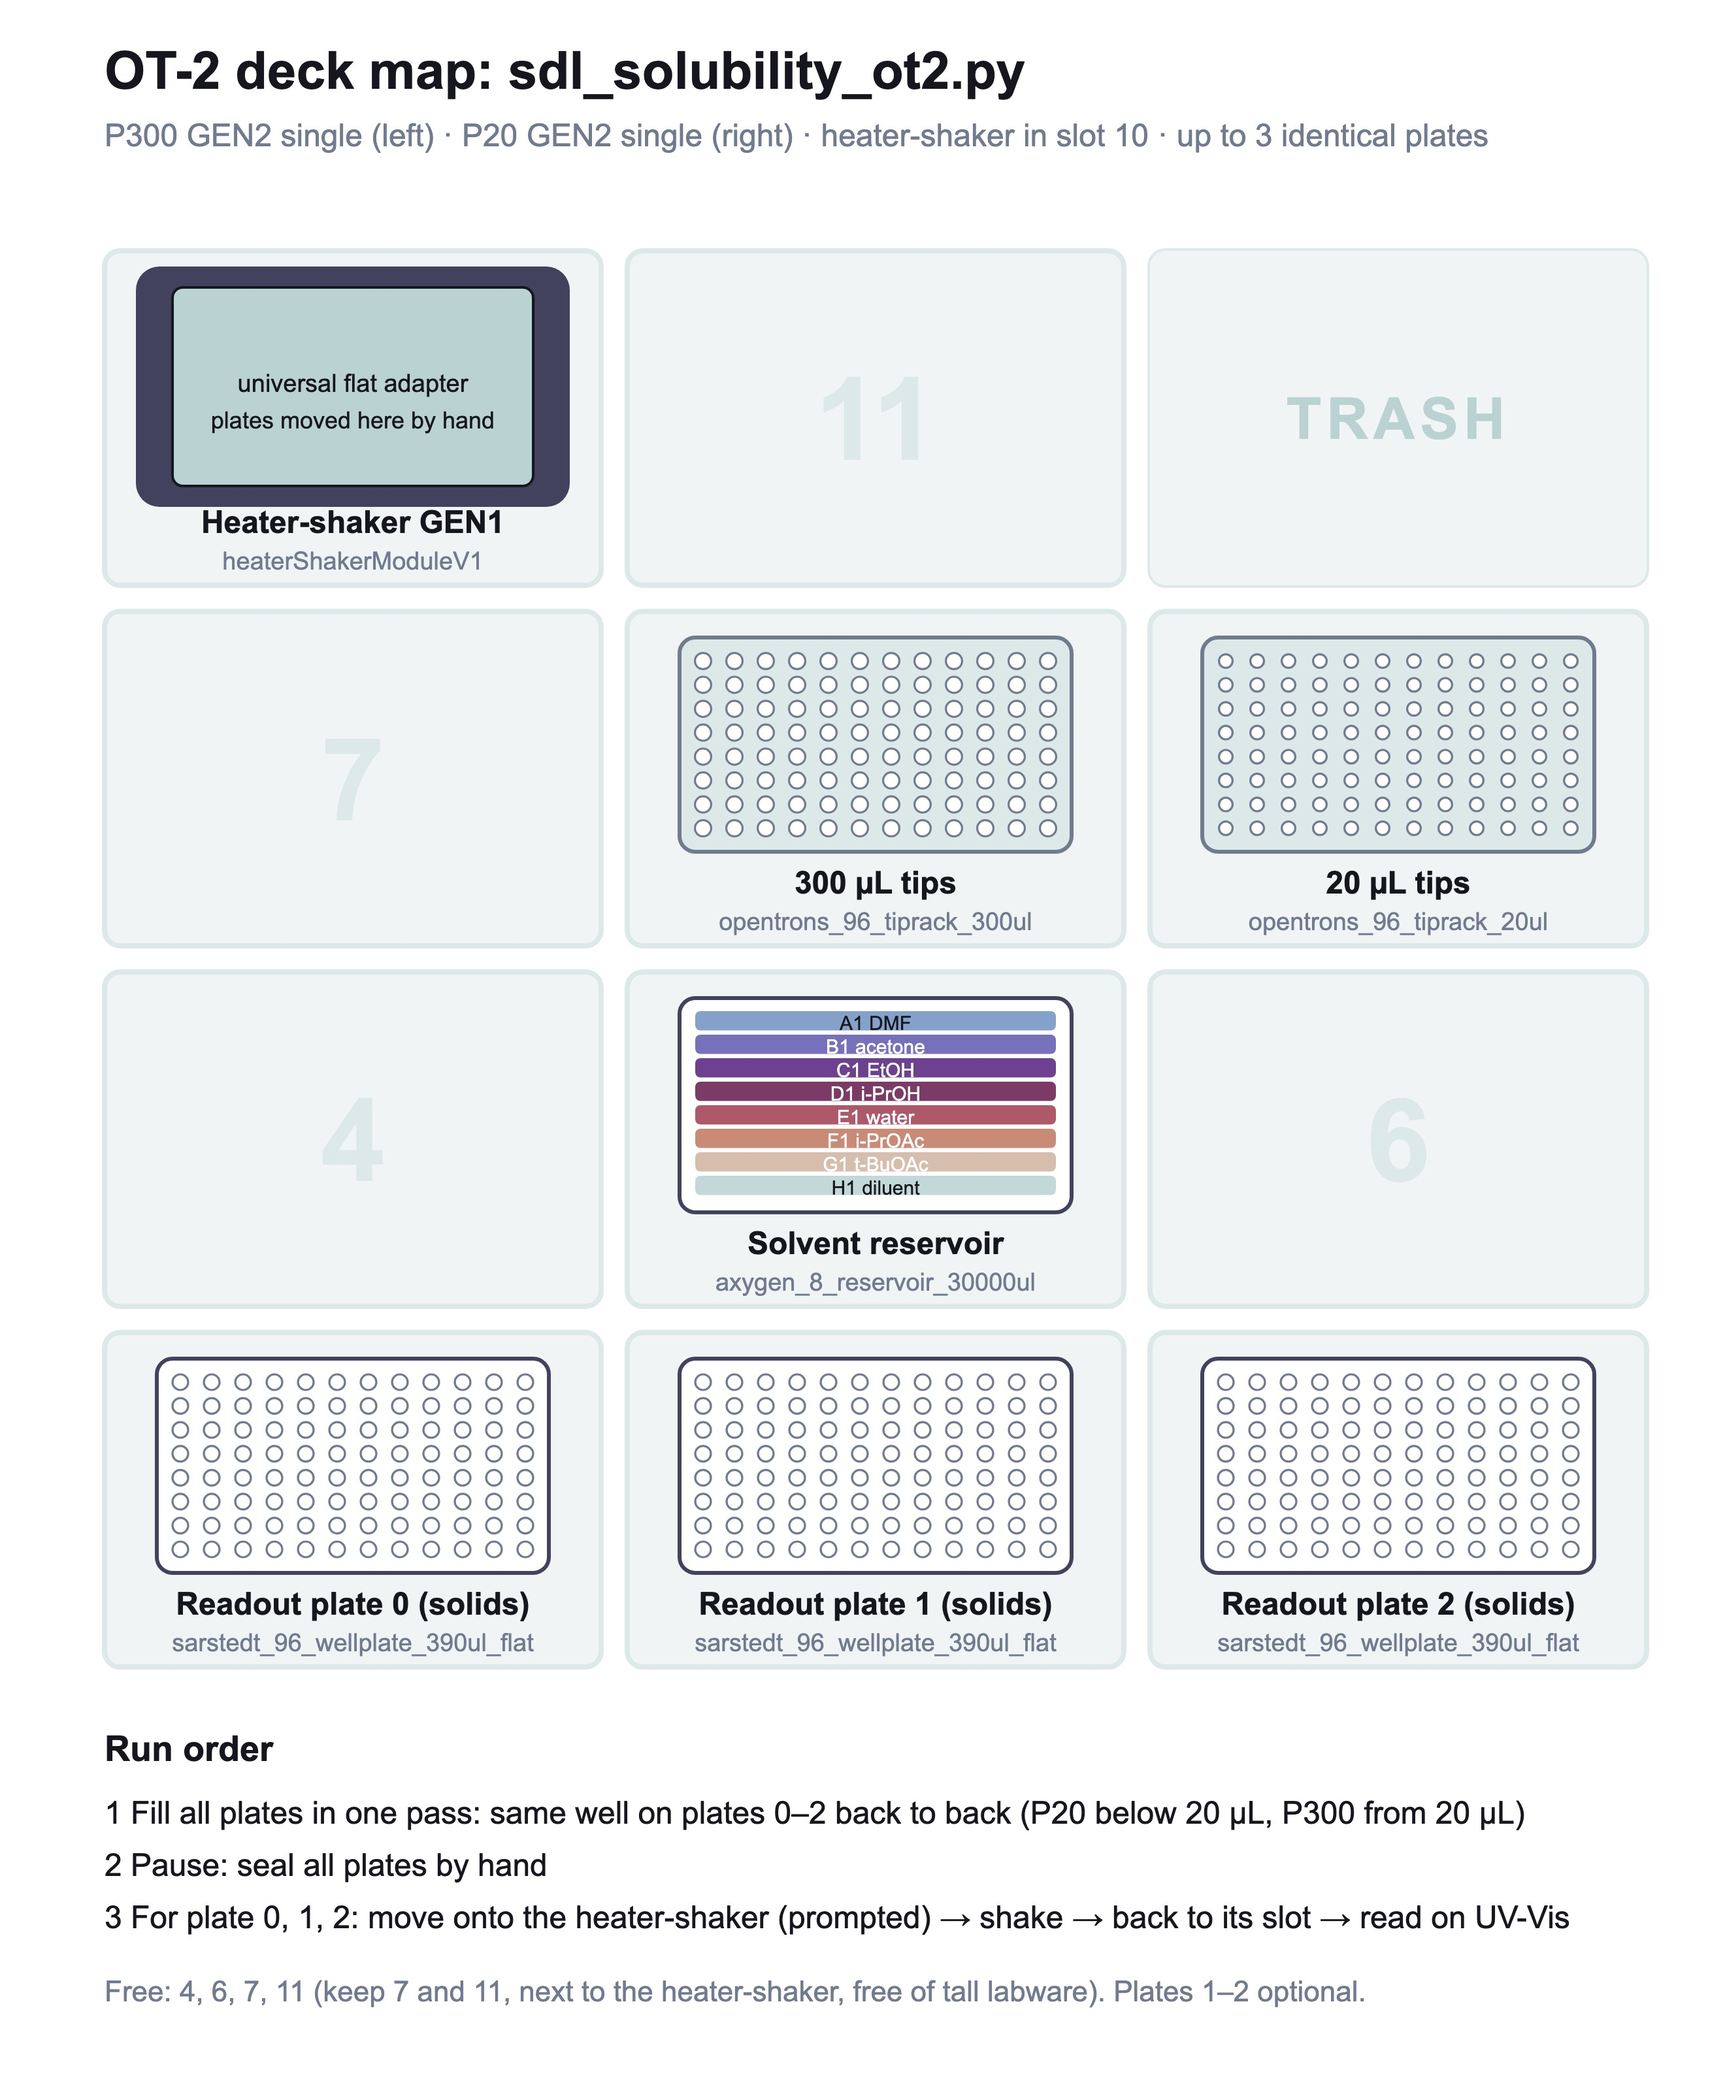
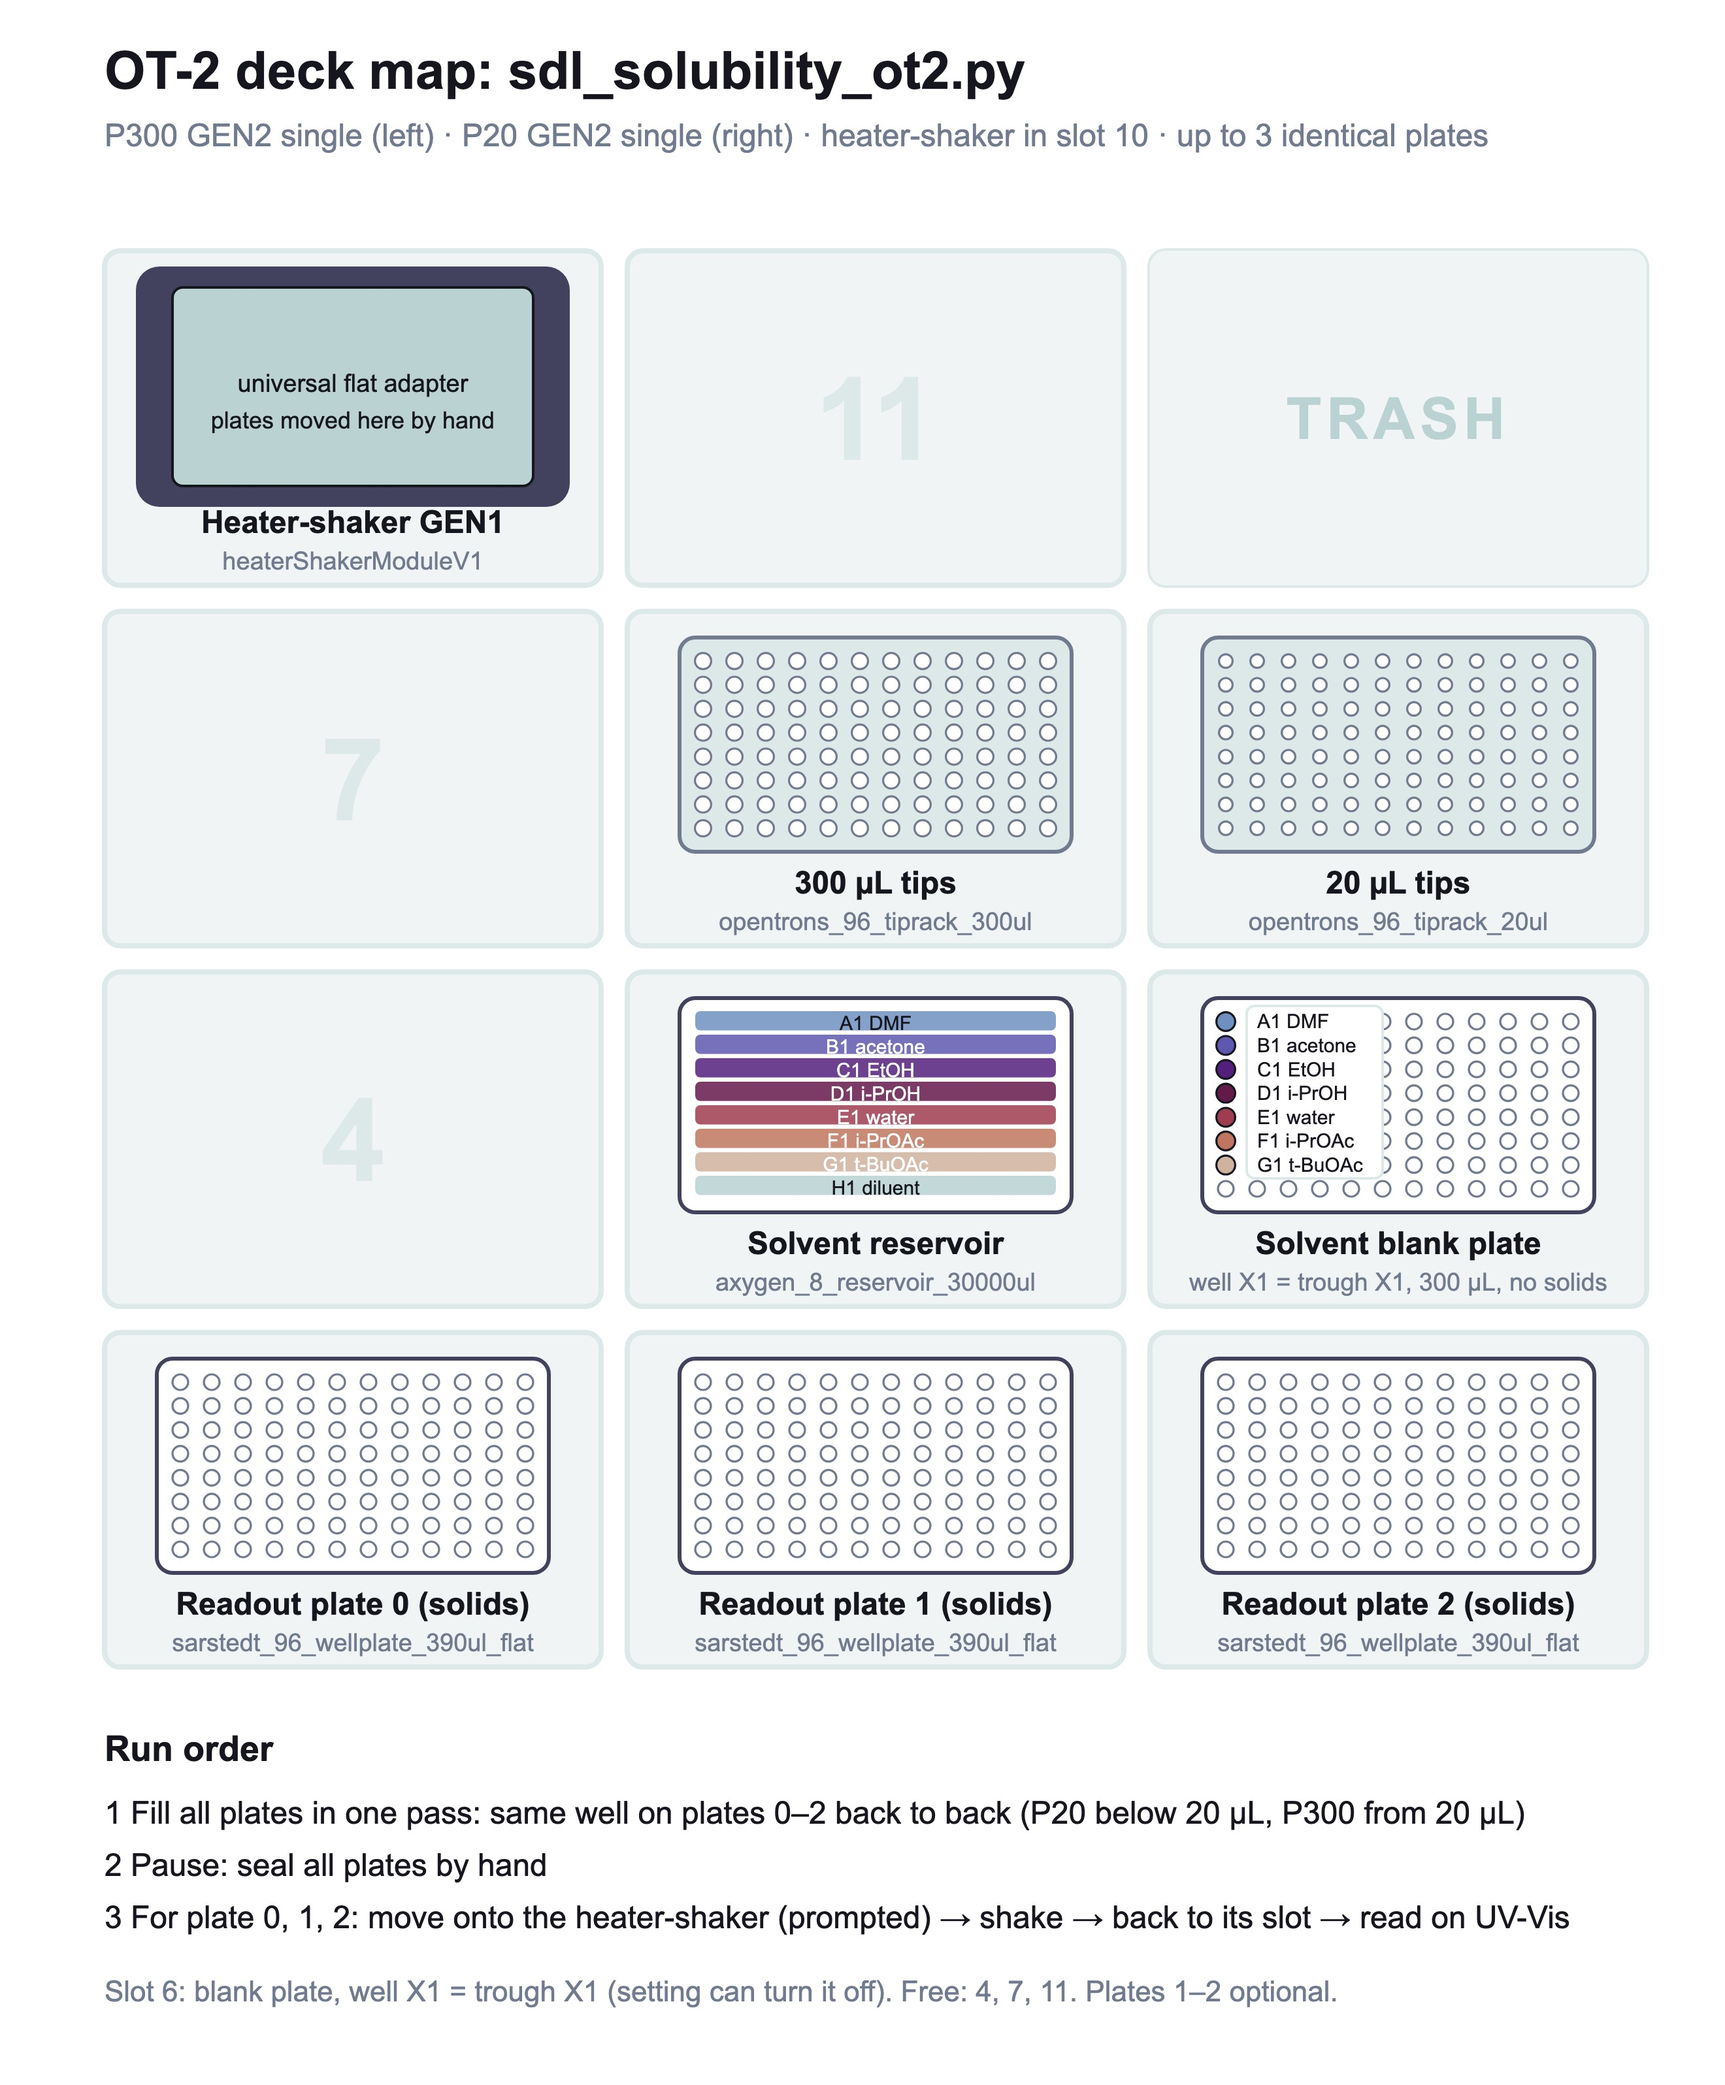
ENH: Deck maps show the solvent blank plate in OT-2 slot 6 / Flex C3

Changed region(s): [[0.6833, 0.4652, 0.9318, 0.6203], [0.0621, 0.9305, 0.7765, 0.9615]]

diff --git a/OTFlex analog/tools/draw_deck_map.py b/OTFlex analog/tools/draw_deck_map.py
@@ -52,6 +52,29 @@ def plate(slot, n):
     wells(bx, by, w, h, 3.0, "#ffffff", MID)
     label(slot, f"Readout plate {n}", "sarstedt_96_wellplate_390ul_flat")
 
+def blank_plate(slot):
+    """96-well plate with one well of each pure solvent: well X1 = trough X1, no solids."""
+    bx, by, w, h = frame(slot, "#ffffff", DARK)
+    pad = 9
+    dx, dy = (w - 2 * pad) / 11, (h - 2 * pad) / 7
+    by_trough = {t[0]: cfg.SOLVENT_LABELS[name] for name, t in cfg.SOLVENT_TROUGHS.items()}
+    rows = [r for r in "ABCDEFGH" if f"{r}1" in by_trough]
+    cols = [TW[2], TW[3], TW[4], TW[5], TW[6], TW[7], TW[8], LIGHT]
+    for i in range(12):
+        for j in range(8):
+            cx, cy = bx + pad + i * dx, by + pad + j * dy
+            if i == 0 and "ABCDEFGH"[j] in rows:
+                add(f'<circle cx="{cx:.1f}" cy="{cy:.1f}" r="3.6" fill="{cols[j]}" stroke="{INK}" stroke-width="0.8"/>')
+            else:
+                add(f'<circle cx="{cx:.1f}" cy="{cy:.1f}" r="3.0" fill="#ffffff" stroke="{MID}" stroke-width="0.8"/>')
+    # name panel over columns 2-5 (empty wells), one line per filled row
+    add(f'<rect x="{bx+pad+dx-4:.1f}" y="{by+3}" width="{4*dx+4:.1f}" height="{7*dy+2:.1f}" rx="3" fill="#ffffff" stroke="{PALE}"/>')
+    for r in rows:
+        j = "ABCDEFGH".index(r)
+        add(f'<text x="{bx+pad+dx:.1f}" y="{by+pad+j*dy+2.6:.1f}" font-size="7.5" fill="{INK}">{r}1 {by_trough[r + "1"]}</text>')
+    label(slot, "Solvent blank plate", f"well X1 = trough X1, {cfg.TOTAL_UL} µL, no solids")
+
+
 def tips(slot, size, rack):
     bx, by, w, h = frame(slot, PALE, MID)
     wells(bx, by, w, h, 2.6 if size == "50" else 3.1, "#ffffff", MID)
@@ -106,6 +129,7 @@ heater_shaker("A1")
 tips("B2", "1000", "opentrons_flex_96_tiprack_1000ul")
 tips("B3", "50", "opentrons_flex_96_tiprack_50ul")
 reservoir("C2")
+blank_plate("C3")
 for i, s in enumerate(["D1", "D2", "D3"]):
     plate(s, i)
 
@@ -119,7 +143,7 @@ steps = [
 ]
 for i, t in enumerate(steps):
     add(f'<text x="{X0}" y="{ly+24+i*20}" font-size="12" fill="{INK}">{t}</text>')
-add(f'<text x="{X0}" y="{ly+24+3*20+8}" font-size="11" fill="{MID}">Free: A2, B1, C1, C3. Read the TIMER comments in the run log for fill and shake times. Plates 1–2 optional.</text>')
+add(f'<text x="{X0}" y="{ly+24+3*20+8}" font-size="11" fill="{MID}">C3: blank plate, well X1 = trough X1. Free: A2, B1, C1. TIMER comments in the run log give fill/shake times.</text>')
 add('</svg>')
 open(OUT, "w").write("\n".join(out))
 print("ok", W, H)

diff --git a/OT protocols/tools/draw_deck_map.py b/OT protocols/tools/draw_deck_map.py
@@ -48,6 +48,29 @@ def plate(slot, n):
     wells(bx, by, w, h, 3.0, "#ffffff", MID)
     label(slot, f"Readout plate {n} (solids)", "sarstedt_96_wellplate_390ul_flat")
 
+def blank_plate(slot):
+    """96-well plate with one well of each pure solvent: well X1 = trough X1, no solids."""
+    bx, by, w, h = frame(slot, "#ffffff", DARK)
+    pad = 9
+    dx, dy = (w - 2 * pad) / 11, (h - 2 * pad) / 7
+    by_trough = {t[0]: cfg.SOLVENT_LABELS[name] for name, t in cfg.SOLVENT_TROUGHS.items()}
+    rows = [r for r in "ABCDEFGH" if f"{r}1" in by_trough]
+    cols = [TW[2], TW[3], TW[4], TW[5], TW[6], TW[7], TW[8], LIGHT]
+    for i in range(12):
+        for j in range(8):
+            cx, cy = bx + pad + i * dx, by + pad + j * dy
+            if i == 0 and "ABCDEFGH"[j] in rows:
+                add(f'<circle cx="{cx:.1f}" cy="{cy:.1f}" r="3.6" fill="{cols[j]}" stroke="{INK}" stroke-width="0.8"/>')
+            else:
+                add(f'<circle cx="{cx:.1f}" cy="{cy:.1f}" r="3.0" fill="#ffffff" stroke="{MID}" stroke-width="0.8"/>')
+    # name panel over columns 2-5 (empty wells), one line per filled row
+    add(f'<rect x="{bx+pad+dx-4:.1f}" y="{by+3}" width="{4*dx+4:.1f}" height="{7*dy+2:.1f}" rx="3" fill="#ffffff" stroke="{PALE}"/>')
+    for r in rows:
+        j = "ABCDEFGH".index(r)
+        add(f'<text x="{bx+pad+dx:.1f}" y="{by+pad+j*dy+2.6:.1f}" font-size="7.5" fill="{INK}">{r}1 {by_trough[r + "1"]}</text>')
+    label(slot, "Solvent blank plate", f"well X1 = trough X1, {cfg.TOTAL_UL} µL, no solids")
+
+
 def tips(slot, size, rack):
     bx, by, w, h = frame(slot, PALE, MID)
     wells(bx, by, w, h, 2.6 if size == "20" else 3.1, "#ffffff", MID)
@@ -93,6 +116,7 @@ heater_shaker("10")
 tips("8", "300", "opentrons_96_tiprack_300ul")
 tips("9", "20", "opentrons_96_tiprack_20ul")
 reservoir("5")
+blank_plate("6")
 for i, s in enumerate(["1", "2", "3"]):
     plate(s, i)
 
@@ -105,7 +129,7 @@ steps = [
 ]
 for i, t in enumerate(steps):
     add(f'<text x="{X0}" y="{ly+24+i*20}" font-size="12" fill="{INK}">{t}</text>')
-add(f'<text x="{X0}" y="{ly+24+3*20+8}" font-size="11" fill="{MID}">Free: 4, 6, 7, 11 (keep 7 and 11, next to the heater-shaker, free of tall labware). Plates 1–2 optional.</text>')
+add(f'<text x="{X0}" y="{ly+24+3*20+8}" font-size="11" fill="{MID}">Slot 6: blank plate, well X1 = trough X1 (setting can turn it off). Free: 4, 7, 11. Plates 1–2 optional.</text>')
 add('</svg>')
 open(OUT, "w").write("\n".join(out))
 print("ok", W, H)
